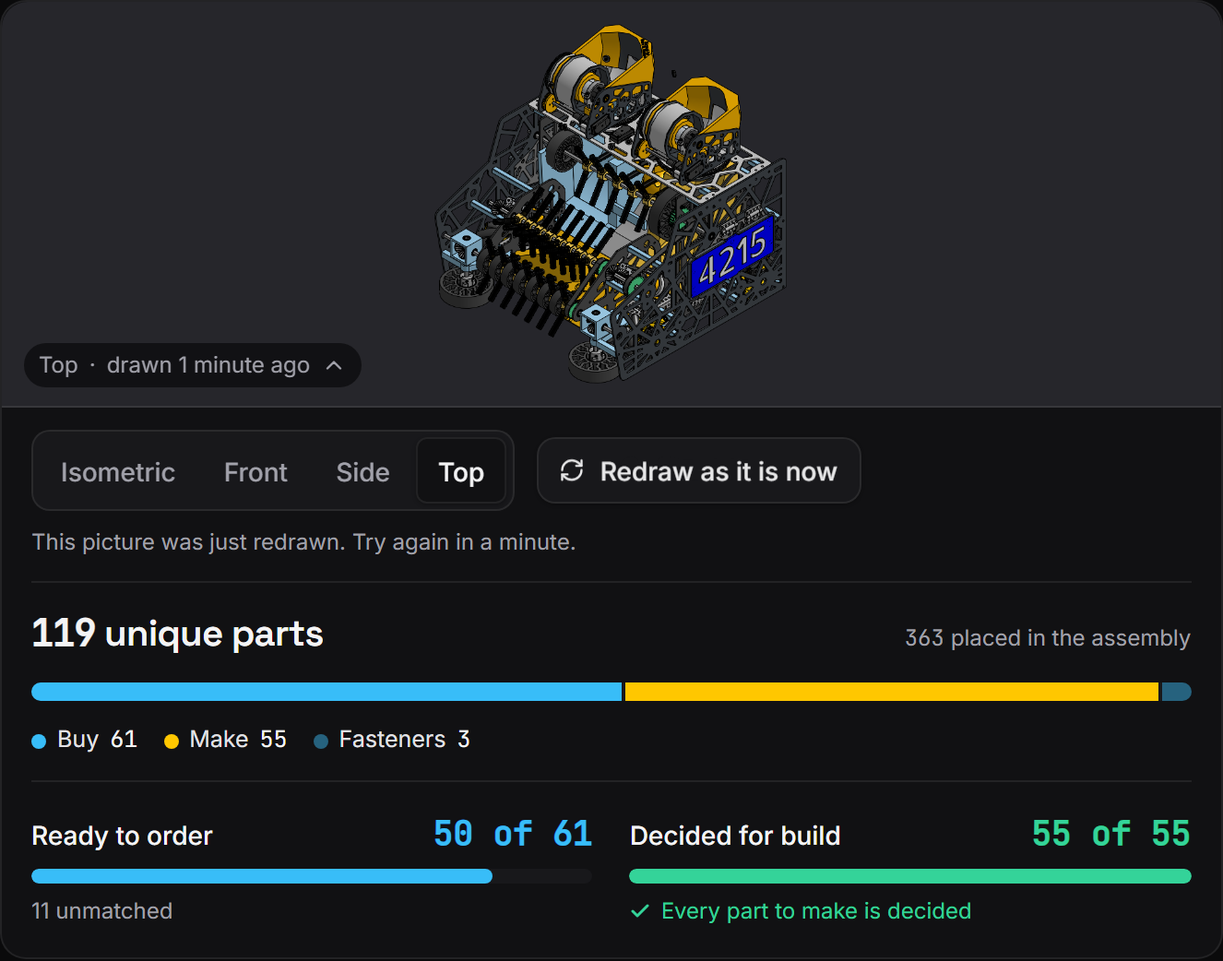
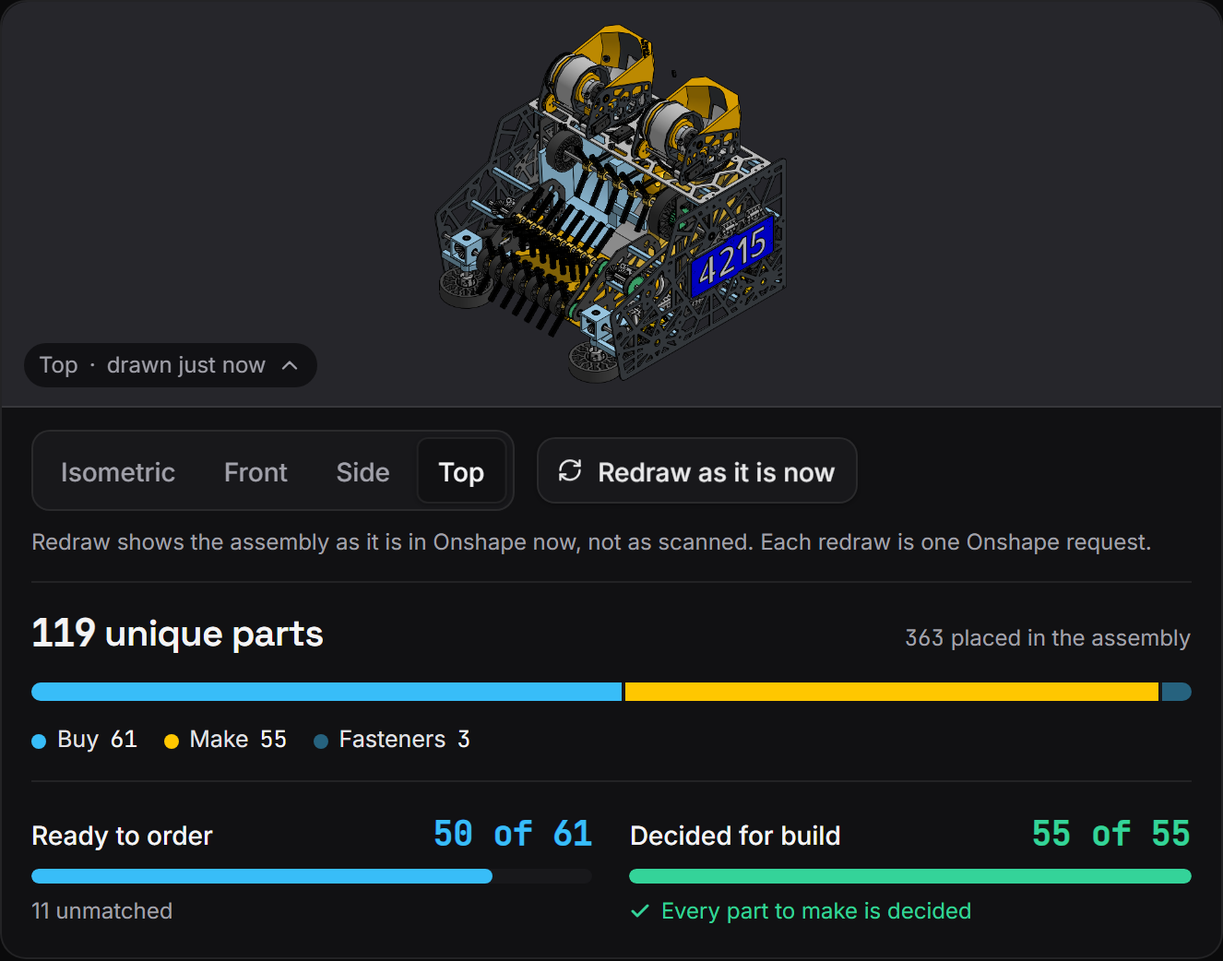
Picture redraws: atomic pause, per-branch pictures, request order
- The once-a-minute pause is reserved in the AiAllowance Durable Object's
  redraw instance before Onshape is asked, so simultaneous clicks cannot both
  spend a request; a failed redraw gives its pause back.
- A redrawn picture is kept per workspace or version, and the panel sends its
  own with every picture request, so one branch never shows another's.
- Only the latest load or redraw may change the picture; late results and
  results after leaving Overview are released. The caption names the view on
  screen, and a remembered view Onshape cannot draw falls back to isometric.
- The fixture clears redrawn pictures on a new scan, as the Worker does.

Changed region(s): [[0.0309, 0.5528, 0.9276, 0.5835], [0.4638, 0.4607, 0.6802, 0.5221], [0.1237, 0.3685, 0.2474, 0.3992]]

diff --git a/apps/worker/src/preview.ts b/apps/worker/src/preview.ts
@@ -1,5 +1,6 @@
 import type { BomLine, ScanResult } from '@control-kit/shared';
 import type { Kv } from './index';
+import type { GateReply, GateRequest } from './ai-allowance';
 
 type FetchOnshape = (path: string, init?: RequestInit) => Promise<Response>;
 const size = { outputWidth: '480', outputHeight: '320' };
@@ -46,17 +47,21 @@ export function assemblyPreviewPath(result: ScanResult, apiVersion: string, view
 export const assemblyPreviewCacheKey = (userId: string, result: ScanResult, view: AssemblyView = 'isometric') =>
   `${userId}:preview-assembly:${result.documentId}:${result.elementId}:${result.diagnostics?.revision?.type ?? ''}:${result.diagnostics?.revision?.id ?? result.scanId ?? 'unknown'}${view === 'isometric' ? '' : `:${view}`}`;
 
+/** The panel's workspace or version: where a redraw is drawn from. */
+export type AssemblySource = { type: 'w' | 'v'; id: string };
 /**
- * A picture drawn on request from the assembly as it is now (its workspace, or its version), kept per user, assembly,
- * and view with the time it was drawn. It replaces the scanned picture while it is newer than the scan.
+ * A picture drawn on request from the assembly as it is now, kept per user, assembly, workspace or version (so one
+ * branch never shows another's), and view, with the time it was drawn. It replaces the scanned picture while it is newer
+ * than the scan.
  */
-export const assemblyNowKey = (userId: string, result: ScanResult, view: AssemblyView) => `${userId}:preview-assembly-now:${result.documentId}:${result.elementId}:${view}`;
+export const assemblyNowKey = (userId: string, result: ScanResult, source: AssemblySource, view: AssemblyView) =>
+  `${userId}:preview-assembly-now:${result.documentId}:${result.elementId}:${source.type}:${source.id}:${view}`;
 export type AssemblyNow = { at: string; image: string };
 /** How long a person waits between redraws of one assembly and view: each costs a billable Onshape request. */
 export const redrawPauseMs = 60_000;
 
 /** The current workspace or version, drawn whole. */
-export function assemblyNowPath(result: ScanResult, source: { type: 'w' | 'v'; id: string }, apiVersion: string, view: AssemblyView) {
+export function assemblyNowPath(result: ScanResult, source: AssemblySource, apiVersion: string, view: AssemblyView) {
   return `/api/${apiVersion}/assemblies/d/${encodeURIComponent(result.documentId)}/${source.type}/${encodeURIComponent(source.id)}/e/${encodeURIComponent(result.elementId)}/shadedviews?${assemblyQuery(view)}`;
 }
 
@@ -94,7 +99,7 @@ export function assemblyPreview(result: ScanResult, cacheKey: string, kv: Kv, fe
 }
 
 /** One Onshape request for the assembly as it is now, stored with the time it was drawn. */
-export async function redrawAssembly(result: ScanResult, source: { type: 'w' | 'v'; id: string }, key: string, kv: Kv, fetchOnshape: FetchOnshape, apiVersion: string, view: AssemblyView): Promise<{ png: Uint8Array; at: string }> {
+export async function redrawAssembly(result: ScanResult, source: AssemblySource, key: string, kv: Kv, fetchOnshape: FetchOnshape, apiVersion: string, view: AssemblyView): Promise<{ png: Uint8Array; at: string }> {
   const response = await fetchOnshape(assemblyNowPath(result, source, apiVersion, view), { headers: { accept: 'application/json' } });
   if (!response.ok) throw new PreviewUnavailableError(response.status === 403 || response.status === 404 ? 'Onshape would not draw this assembly; its document may not be shared with you.' : `Onshape could not draw this assembly (HTTP ${response.status}).`);
   const body = await response.json().catch(() => null) as { images?: unknown } | null;
@@ -103,4 +108,24 @@ export async function redrawAssembly(result: ScanResult, source: { type: 'w' | '
   const at = new Date().toISOString();
   await kv.put(key, JSON.stringify({ at, image } satisfies AssemblyNow), { expirationTtl: 30 * 86400 });
   return { png: Uint8Array.from(atob(image), char => char.charCodeAt(0)), at };
+}
+
+/** The Durable Object namespace that holds pauses atomically (`AiAllowance`, instance "redraw"). */
+type Gates = { idFromName(name: string): unknown; get(id: unknown): { fetch(request: Request): Promise<Response> } };
+/**
+ * Reserves one redraw before Onshape is asked, so two clicks arriving together cannot both spend a request. With the
+ * Durable Object the check and the reservation are one step; without it (local tests), the stored picture's time is the
+ * only check. A failed redraw gives its pause back.
+ */
+export async function reserveRedraw(gates: Gates | undefined, kv: Kv, key: string): Promise<{ ok: true; release(): Promise<void> } | { ok: false; retryAfter: number }> {
+  if (!gates) {
+    const last = await kv.get(key).then(value => value ? (JSON.parse(value) as AssemblyNow).at : null).catch(() => null);
+    const wait = last ? Date.parse(last) + redrawPauseMs - Date.now() : 0;
+    return wait > 0 ? { ok: false, retryAfter: Math.ceil(wait / 1000) } : { ok: true, release: async () => undefined };
+  }
+  const stub = gates.get(gates.idFromName('redraw'));
+  const ask = async (body: GateRequest) => await (await stub.fetch(new Request('https://allowance/', { method: 'POST', body: JSON.stringify(body) }))).json() as GateReply;
+  const reply = await ask({ action: 'gate', key, pauseMs: redrawPauseMs });
+  if (!reply.ok) return { ok: false, retryAfter: Math.ceil(reply.retryAfterMs / 1000) };
+  return { ok: true, release: async () => { await ask({ action: 'ungate', key, until: reply.until }).catch(() => undefined); } };
 }

diff --git a/apps/worker/src/index.ts b/apps/worker/src/index.ts
@@ -7,7 +7,7 @@ import { aiReviewEnabled, cachedAiReview, releaseAiReview, reserveAiReview, revi
 export { AiAllowance } from './ai-allowance';
 import { advanceExport, BudgetExhaustedError, createExportJob, fileKey, jobKey, jobSummary, pollBudget, type ExportJob, type RequestBudget } from './step-export';
 import { countedFetch, persistLedger, RequestLedger } from './onshape-client';
-import { assemblyNowKey, assemblyPreview, assemblyPreviewCacheKey, assemblyView, linePreview, previewCacheKey, PreviewUnavailableError, readAssemblyNow, redrawAssembly, redrawPauseMs, type AssemblyNow } from './preview';
+import { assemblyNowKey, assemblyPreview, assemblyPreviewCacheKey, assemblyView, linePreview, previewCacheKey, PreviewUnavailableError, readAssemblyNow, redrawAssembly, reserveRedraw, type AssemblySource } from './preview';
 import { clearCookie, readSignedEnvelope, seal, signedCookie, unseal, type SignedCookie } from './secrets';
 import { controlPointRoute, type ControlPointEnv } from './control-point';
 
@@ -116,6 +116,12 @@ function onshapeFetcher(env: Env, current: { id: string; data: Session }, ledger
     throw new Error('Onshape rate limit exhausted');
   };
 }
+/** The panel's workspace or version from `wvm`/`wvmId`, or null when it names neither. */
+function assemblySource(url: URL): AssemblySource | null {
+  const type = url.searchParams.get('wvm'), id = url.searchParams.get('wvmId') ?? '';
+  return (type === 'w' || type === 'v') && /^[A-Za-z0-9]{1,64}$/.test(id) ? { type, id } : null;
+}
+
 /** An assembly picture; `x-picture-drawn` holds when it was redrawn on request, absent for the scanned revision's picture. */
 function assemblyPicture(png: Uint8Array, drawnAt: string | null) {
   const headers: Record<string, string> = { 'content-type': 'image/png', 'cache-control': 'private, no-cache' };
@@ -360,7 +366,9 @@ async function route(request: Request, env: Env): Promise<Response> {
     if (!raw) return reply({ error: 'Scan this assembly again to see its picture.' }, 409);
     const result = JSON.parse(raw) as ScanResult;
     const view = assemblyView(url.searchParams.get('view'));
-    const drawn = await readAssemblyNow(env.APP_STATE, assemblyNowKey(current.data.user.id, result, view), result);
+    // A picture redrawn from this panel's own workspace or version, when the panel names it.
+    const source = assemblySource(url);
+    const drawn = source && await readAssemblyNow(env.APP_STATE, assemblyNowKey(current.data.user.id, result, source, view), result);
     if (drawn) return assemblyPicture(Uint8Array.from(atob(drawn.image), char => char.charCodeAt(0)), drawn.at);
     const ledger = new RequestLedger('preview');
     try {
@@ -379,22 +387,21 @@ async function route(request: Request, env: Env): Promise<Response> {
     if (!current) return reply({ error: 'Reconnect Onshape.' }, 401);
     const scanId = url.searchParams.get('scanId');
     if (!scanId || !/^[a-f0-9-]{36}$/.test(scanId)) return reply({ error: 'Invalid scan.' }, 400);
-    const type = url.searchParams.get('wvm');
-    const id = url.searchParams.get('wvmId') ?? '';
-    if ((type !== 'w' && type !== 'v') || !/^[A-Za-z0-9]{1,64}$/.test(id)) return reply({ error: 'Open Control Kit from an assembly tab to redraw its picture.' }, 400);
+    const source = assemblySource(url);
+    if (!source) return reply({ error: 'Open Control Kit from an assembly tab to redraw its picture.' }, 400);
     const raw = await env.APP_STATE.get(`scan:${current.data.user.id}:${scanId}`);
     if (!raw) return reply({ error: 'Scan this assembly again to see its picture.' }, 409);
     const result = JSON.parse(raw) as ScanResult;
     const view = assemblyView(url.searchParams.get('view'));
-    const key = assemblyNowKey(current.data.user.id, result, view);
-    const last = await env.APP_STATE.get(key).then(value => value ? (JSON.parse(value) as AssemblyNow).at : null).catch(() => null);
-    const wait = last ? Date.parse(last) + redrawPauseMs - Date.now() : 0;
-    if (wait > 0) return reply({ error: 'This picture was just redrawn. Try again in a minute.', retryAfter: Math.ceil(wait / 1000) }, 429);
+    const key = assemblyNowKey(current.data.user.id, result, source, view);
+    const reserved = await reserveRedraw(env.AI_ALLOWANCE, env.APP_STATE, key);
+    if (!reserved.ok) return reply({ error: 'This picture was just redrawn. Try again in a minute.', retryAfter: reserved.retryAfter }, 429);
     const ledger = new RequestLedger('preview');
     try {
-      const { png, at } = await redrawAssembly(result, { type, id }, key, env.APP_STATE, onshapeFetcher(env, current, ledger, { remaining: 3 }), env.ONSHAPE_API_VERSION, view);
+      const { png, at } = await redrawAssembly(result, source, key, env.APP_STATE, onshapeFetcher(env, current, ledger, { remaining: 3 }), env.ONSHAPE_API_VERSION, view);
       return assemblyPicture(png, at);
     } catch (error) {
+      await reserved.release();
       if (error instanceof SessionExpiredError) return reply({ error: 'Reconnect Onshape.' }, 401);
       if (error instanceof PreviewUnavailableError || error instanceof BudgetExhaustedError) return reply({ error: error instanceof PreviewUnavailableError ? error.message : 'Onshape is busy. Try again shortly.' }, 404);
       throw error;

diff --git a/apps/worker/src/control-point.test.ts b/apps/worker/src/control-point.test.ts
@@ -1,4 +1,5 @@
 import { afterAll, beforeEach, describe, expect, it, vi } from 'vitest';
+import { AiAllowance, type GateRequest } from './ai-allowance';
 import worker, { type Env, type Kv } from './index';
 import { createMockOnshape } from './mock-onshape';
 import { createMockControlPoint } from './mock-control-point';
@@ -393,10 +394,13 @@ describe('assembly picture', () => {
       const first = await redraw();
       expect(new TextDecoder().decode(await first.arrayBuffer())).toBe('PNG assemblies w/work1');
       expect(first.headers.get('x-picture-drawn')).toBeTruthy();
-      // The scan's picture is now the redrawn one, served without another request.
-      const shown = await call(`/api/preview/assembly?scanId=${result.scanId}`, { cookie });
+      // In this panel's workspace the scan's picture is now the redrawn one, served without another request.
+      const shown = await call(`/api/preview/assembly?scanId=${result.scanId}&wvm=w&wvmId=work1`, { cookie });
       expect(new TextDecoder().decode(await shown.arrayBuffer())).toBe('PNG assemblies w/work1');
       expect(shown.headers.get('x-picture-drawn')).toBe(first.headers.get('x-picture-drawn'));
+      // Another branch, or a panel that names none, still sees the scanned picture.
+      expect(new TextDecoder().decode(await (await call(`/api/preview/assembly?scanId=${result.scanId}&wvm=w&wvmId=branch2`, { cookie })).arrayBuffer())).toBe('PNG assemblies m/mv-1');
+      expect((await call(`/api/preview/assembly?scanId=${result.scanId}`, { cookie })).headers.get('x-picture-drawn')).toBeNull();
       const again = await redraw();
       expect(again.status).toBe(429);
       expect((await again.json() as { retryAfter: number }).retryAfter).toBeGreaterThan(0);
@@ -408,9 +412,51 @@ describe('assembly picture', () => {
       // A later scan reads a newer revision, so its own picture wins again.
       vi.setSystemTime(Date.now() + 1000);
       const newer = await scan(cookie);
-      expect(new TextDecoder().decode(await (await call(`/api/preview/assembly?scanId=${newer.scanId}`, { cookie })).arrayBuffer())).toBe('PNG assemblies m/mv-1');
+      expect(new TextDecoder().decode(await (await call(`/api/preview/assembly?scanId=${newer.scanId}&wvm=w&wvmId=work1`, { cookie })).arrayBuffer())).toBe('PNG assemblies m/mv-1');
       expect((await redraw('isometric', 'x')).status).toBe(400);
       expect((await call(`/api/preview/assembly/redraw?scanId=${result.scanId}&wvm=w&wvmId=work1`, { cookie, method: 'POST', headers: { origin: 'https://evil.example' } })).status).toBe(403);
     } finally { vi.useRealTimers(); }
   });
+  it('lets only one of two simultaneous redraws reach Onshape', async () => {
+    const instance = new AiAllowance(memoryStorage());
+    const gates = { idFromName: (name: string) => name, get: () => ({ fetch: (request: Request) => instance.fetch(request) }) };
+    const config = { ...env, AI_ALLOWANCE: gates } as Env;
+    const cookie = await session();
+    const result = await scan(cookie);
+    const before = onshape.apiRequests;
+    const both = await Promise.all([1, 2].map(() => call(`/api/preview/assembly/redraw?scanId=${result.scanId}&view=right&wvm=w&wvmId=work1`, { cookie, method: 'POST', config })));
+    expect(both.map(response => response.status).sort()).toEqual([200, 429]);
+    expect(onshape.apiRequests - before).toBe(1);
+  });
 });
+
+describe('redraw pauses', () => {
+  it('holds a pause atomically, gives a failed one back, and keeps a newer one', async () => {
+    const instance = new AiAllowance(memoryStorage());
+    let now = 1_000_000;
+    instance.now = () => now;
+    const gate = (body: GateRequest) => instance.gate(body);
+    const first = await gate({ action: 'gate', key: 'a', pauseMs: 60_000 });
+    expect(first).toEqual({ ok: true, until: 1_060_000 });
+    expect(await gate({ action: 'gate', key: 'a', pauseMs: 60_000 })).toEqual({ ok: false, retryAfterMs: 60_000 });
+    expect((await gate({ action: 'gate', key: 'b', pauseMs: 60_000 })).ok).toBe(true);
+    // A failed redraw gives its own pause back, so the person can try again at once.
+    await gate({ action: 'ungate', key: 'a', until: (first as { until: number }).until });
+    const second = await gate({ action: 'gate', key: 'a', pauseMs: 60_000 });
+    expect(second.ok).toBe(true);
+    // An old caller's give-back never removes a newer pause.
+    await gate({ action: 'ungate', key: 'a', until: 1 });
+    expect((await gate({ action: 'gate', key: 'a', pauseMs: 60_000 })).ok).toBe(false);
+    now += 61_000;
+    expect((await gate({ action: 'gate', key: 'a', pauseMs: 60_000 })).ok).toBe(true);
+  });
+});
+
+function memoryStorage() {
+  const store = new Map<string, unknown>();
+  return { storage: {
+    get: async <T>(key: string) => store.get(key) as T | undefined, put: async (key: string, value: unknown) => { store.set(key, value); },
+    delete: async (key: string) => store.delete(key),
+    list: async <T>({ prefix }: { prefix: string }) => new Map([...store].filter(([key]) => key.startsWith(prefix))) as Map<string, T>,
+  } };
+}

diff --git a/apps/web/src/app/Overview.tsx b/apps/web/src/app/Overview.tsx
@@ -214,18 +214,29 @@ function AssemblyPicture({ kit }: { kit: ControlKit }) {
   const [busy, setBusy] = useState(false);
   const [note, setNote] = useState('');
   const shown = useRef<string | null>(null);
+  // Every load and redraw takes a number; only the latest one may change the picture, and nothing lands after unmount.
+  const latest = useRef(0);
+  const mounted = useRef(true);
   const figure = useRef<HTMLDivElement>(null);
   const menuId = useId();
-  const show = (next: AssemblyPictureResult) => {
+  const remember = (next: AssemblyView) => { try { localStorage.setItem(viewKey, next); } catch { /* the view is a convenience; the default still works */ } };
+  const settle = (request: number, next: AssemblyPictureResult) => {
+    if (!mounted.current || request !== latest.current) { URL.revokeObjectURL(next.url); return; }
     if (shown.current) URL.revokeObjectURL(shown.current);
     shown.current = next.url;
     setPicture(next);
+    setNote('');
   };
-  useEffect(() => () => { if (shown.current) URL.revokeObjectURL(shown.current); }, []);
+  useEffect(() => { mounted.current = true; return () => { mounted.current = false; if (shown.current) URL.revokeObjectURL(shown.current); shown.current = null; }; }, []);
   useEffect(() => {
+    const request = ++latest.current;
     const controller = new AbortController();
-    kit.assemblyPicture(view, controller.signal).then(next => { if (!controller.signal.aborted) { show(next); setNote(''); } })
-      .catch(error => { if (!controller.signal.aborted) setNote(error instanceof Error ? error.message : 'Onshape could not draw this view.'); });
+    kit.assemblyPicture(view, controller.signal).then(next => settle(request, next)).catch(error => {
+      if (controller.signal.aborted || request !== latest.current || !mounted.current) return;
+      // A remembered view Onshape cannot draw falls back to isometric, so the picture and its menu never disappear for good.
+      if (!shown.current && view !== 'isometric') { setView('isometric'); remember('isometric'); return; }
+      setNote(error instanceof Error ? error.message : 'Onshape could not draw this view.');
+    });
     return () => controller.abort();
   }, [result.scanId, view]);
   // The menu closes on Escape or a click outside the picture.
@@ -238,19 +249,17 @@ function AssemblyPicture({ kit }: { kit: ControlKit }) {
     return () => { document.removeEventListener('pointerdown', away); document.removeEventListener('keydown', escape); };
   }, [open]);
   if (!picture) return null;
-  const choose = (value: string) => {
-    const next = value as AssemblyView;
-    setView(next);
-    try { localStorage.setItem(viewKey, next); } catch { /* the view is a convenience; the default still works */ }
-  };
+  const choose = (value: string) => { setView(value as AssemblyView); remember(value as AssemblyView); };
   const redraw = async () => {
+    const request = ++latest.current;
     setBusy(true);
     setNote('');
-    try { show(await kit.redrawAssemblyPicture(view)); }
-    catch (error) { setNote(error instanceof Error ? error.message : 'Onshape could not redraw this picture.'); }
-    finally { setBusy(false); }
+    try { settle(request, await kit.redrawAssemblyPicture(view)); }
+    catch (error) { if (mounted.current && request === latest.current) setNote(error instanceof Error ? error.message : 'Onshape could not redraw this picture.'); }
+    finally { if (mounted.current) setBusy(false); }
   };
-  const label = pictureViews.find(option => option.value === view)!.label;
+  // The caption and description name the picture on screen, which may still be the previous view while the next one loads.
+  const label = pictureViews.find(option => option.value === picture.view)!.label;
   return <div ref={figure} className="hero"><figure className="hero-picture">
     <button type="button" className="hero-picture-button" aria-expanded={open} aria-controls={menuId} onClick={() => setOpen(value => !value)}
       aria-label={`${result.assemblyName}, as modelled in Onshape (${label.toLowerCase()} view). Change the picture`}>

diff --git a/apps/web/src/app/useControlKit.ts b/apps/web/src/app/useControlKit.ts
@@ -21,7 +21,7 @@ export const contextKeys = ['documentId', 'workspaceOrVersion', 'workspaceOrVers
 export const workerUrl = import.meta.env.VITE_WORKER_URL ?? '';
 /** The angles the assembly's picture can be drawn from, as the Worker names them (`assemblyViews`). */
 export type AssemblyView = 'isometric' | 'front' | 'right' | 'top';
-export type AssemblyPictureResult = { url: string; drawnAt: string | null };
+export type AssemblyPictureResult = { url: string; drawnAt: string | null; view: AssemblyView };
 export const api = (path: string, init: RequestInit = {}) => fetch(`${workerUrl}${path}`, { credentials: 'include', ...init });
 export const postJson = (path: string, body: unknown) => api(path, { method: 'POST', headers: { 'content-type': 'application/json' }, body: JSON.stringify(body) });
 const overridesOf = (result: ScanResult) => Object.fromEntries(result.lines.filter(line => line.manualClassification).map(line => [line.bomLineKey, line.manualClassification!]));
@@ -555,19 +555,21 @@ export function useControlKit(context: URLSearchParams) {
    * The whole assembly drawn by Onshape in one view: at the scanned revision (cached by the Worker, so only a new
    * revision or view costs a request), or the picture last redrawn on request while it is newer than the scan.
    */
+  // This tab's workspace or version, so a redrawn picture is only ever shown in the branch it was drawn from.
+  const pictureSource = () => ({ wvm: context.get('workspaceOrVersion') ?? '', wvmId: context.get('workspaceOrVersionId') ?? '' });
   async function assemblyPicture(view: AssemblyView, signal: AbortSignal): Promise<AssemblyPictureResult> {
     if (!result?.scanId) throw new Error('Scan this assembly first.');
-    const response = await api(`/api/preview/assembly?${new URLSearchParams({ scanId: result.scanId, view })}`, { signal });
+    const response = await api(`/api/preview/assembly?${new URLSearchParams({ scanId: result.scanId, view, ...pictureSource() })}`, { signal });
     if (!response.ok) throw new Error(await response.json().then((body: { error?: string }) => body.error).catch(() => undefined) ?? 'Onshape could not draw this view.');
-    return { url: URL.createObjectURL(await response.blob()), drawnAt: response.headers.get('x-picture-drawn') };
+    return { url: URL.createObjectURL(await response.blob()), drawnAt: response.headers.get('x-picture-drawn'), view };
   }
   /** Draws the assembly as it is now in this tab's workspace or version: one Onshape request, at most once a minute per view. */
   async function redrawAssemblyPicture(view: AssemblyView): Promise<AssemblyPictureResult> {
-    const wvm = context.get('workspaceOrVersion'), wvmId = context.get('workspaceOrVersionId');
+    const { wvm, wvmId } = pictureSource();
     if (!result?.scanId || (wvm !== 'w' && wvm !== 'v') || !wvmId) throw new Error('Open Control Kit from an assembly tab to redraw its picture.');
     const response = await api(`/api/preview/assembly/redraw?${new URLSearchParams({ scanId: result.scanId, view, wvm, wvmId })}`, { method: 'POST' });
     if (!response.ok) throw new Error(await response.json().then((body: { error?: string }) => body.error).catch(() => undefined) ?? 'Onshape could not redraw this picture.');
-    return { url: URL.createObjectURL(await response.blob()), drawnAt: response.headers.get('x-picture-drawn') };
+    return { url: URL.createObjectURL(await response.blob()), drawnAt: response.headers.get('x-picture-drawn'), view };
   }
 
   return { assemblyPicture, redrawAssemblyPicture, context, buildWorkbook, lastStepZip, previous, ai, runAiReview, acceptAi, dismissAi, saving, showInOnshape, partPicture, session, checkingSession, refreshSession, connectUrl, error, clearError: () => setError(''), result, progress, scan, cancelScan, decide, setDisposition,

diff --git a/apps/worker/src/ai-allowance.ts b/apps/worker/src/ai-allowance.ts
@@ -2,10 +2,16 @@
  * The AI review's daily allowance, as one Durable Object. KV has no atomic read-modify-write, so two reviews starting
  * together could both pass a KV counter; a Durable Object handles one request at a time and its storage waits block
  * other requests, so checking and reserving are one step. One instance ("global") holds every count.
+ *
+ * The same class also holds short pauses (`gate`) for other billable actions, in its own instance ("redraw" for the
+ * assembly picture), so two requests arriving together cannot both start one: the first reserves the pause, the second
+ * is told how long to wait. A failed action gives its pause back (`ungate`).
  */
 type Storage = { get<T>(key: string): Promise<T | undefined>; put<T>(key: string, value: T): Promise<void>; delete(key: string): Promise<boolean>; list<T>(options: { prefix: string }): Promise<Map<string, T>> };
 export type AllowanceRequest = { action: 'reserve'; userId: string; perUser: number; global: number; lockMs: number } | { action: 'release'; userId: string };
 export type AllowanceReply = { ok: true } | { ok: false; reason: 'busy' | 'user-limit' | 'global-limit' };
+export type GateRequest = { action: 'gate'; key: string; pauseMs: number } | { action: 'ungate'; key: string; until: number };
+export type GateReply = { ok: true; until: number } | { ok: false; retryAfterMs: number };
 
 export class AiAllowance {
   /** Cloudflare constructs a Durable Object as `(state, env)`; the clock is a property so tests can set it. */
@@ -13,8 +19,8 @@ export class AiAllowance {
   constructor(private readonly state: { storage: Storage }, _env?: unknown) { void _env; }
 
   async fetch(request: Request): Promise<Response> {
-    const body = await request.json() as AllowanceRequest;
-    return Response.json(await this.handle(body));
+    const body = await request.json() as AllowanceRequest | GateRequest;
+    return Response.json(body.action === 'gate' || body.action === 'ungate' ? await this.gate(body) : await this.handle(body));
   }
 
   /** Requests run one after another, so a check and its reservation are never split by another request. */
@@ -23,6 +29,31 @@ export class AiAllowance {
     const next = this.queue.then(() => this.run(body));
     this.queue = next.catch(() => undefined);
     return next;
+  }
+
+  /** Pauses run in the same queue, so a check and its reservation are one step here too. */
+  gate(body: GateRequest): Promise<GateReply> {
+    const next = this.queue.then(() => this.runGate(body));
+    this.queue = next.catch(() => undefined);
+    return next;
+  }
+
+  private async runGate(body: GateRequest): Promise<GateReply> {
+    const { storage } = this.state;
+    const key = `gate:${body.key}`;
+    if (body.action === 'ungate') {
+      // Only the pause this caller reserved; a newer one stays.
+      if ((await storage.get<number>(key)) === body.until) await storage.delete(key);
+      return { ok: true, until: 0 };
+    }
+    const now = this.now();
+    const until = (await storage.get<number>(key)) ?? 0;
+    if (until > now) return { ok: false, retryAfterMs: until - now };
+    // Expired pauses are dropped as new ones are taken, so the instance never grows past its active pauses.
+    for (const [old, value] of await storage.list<number>({ prefix: 'gate:' })) if (value <= now) await storage.delete(old);
+    const next = now + body.pauseMs;
+    await storage.put(key, next);
+    return { ok: true, until: next };
   }
 
   private async run(body: AllowanceRequest): Promise<AllowanceReply> {

diff --git a/apps/web/fixture-api.ts b/apps/web/fixture-api.ts
@@ -99,6 +99,8 @@ export function fixtureApi(fixturePath?: string, catalogOrigin?: string, preview
         }
         if (url.pathname === '/control-point/start') { cpLinked = true; response.setHeader('content-type', 'text/html'); return response.end('<script>opener && opener.postMessage({ type: "control-point-linked" }, location.origin); close();</script>Linked.'); }
         if (url.pathname === '/api/scan') {
+          // A new scan reads a newer revision, so its own pictures replace any redrawn ones, as in the Worker.
+          redrawnAt.clear();
           response.setHeader('content-type', 'application/x-ndjson');
           // The same steps and counts the Worker sends, so the progress screen can be seen here.
           // A saved scan reports what it really read; its subassembly count is not kept, so it is left out.

diff --git a/CLAUDE.md b/CLAUDE.md
@@ -239,7 +239,7 @@ UI refresh (2026-10-26, from the owner's audit "Control Kit — Full UI Audit an
 - **Control Point UI (PR 3).** `useControlPoint.ts` reads `/api/control-point/*`, opens the link in a popup (Onshape's iframe cannot show Control Point's sign-in) and listens for the Worker's `control-point-linked` / `control-point-link-failed` message from the Worker origin. `ControlPoint.tsx` holds the Overview card: unlinked, a preview of this scan built by `buildControlPointPayload(result, { workspaceId: null })` grouped into Control Point sections, the payoff, Link and "Create a free workspace"; linked, the workspace picker (one workspace preselected but confirmed; none gets create and join links), then "Send full BOM to {workspace}" with the last send. A send attaches the workbook and the STEP ZIP built in this session (`lastStepZip`), or lists STEP under `filesNotIncluded`, and posts the stringified payload unmodified. When the order and build list are complete, the primary action becomes the send, then "View in {workspace}". `workspaceAccent` (`model.ts`) turns the workspace colour into `--ck-volt` and its hover/soft/ink only when it reaches 3:1 on graphite and 4.5:1 under button text; otherwise Control Kit stays volt and Settings says why. The workspace shows in the top bar chip and sidebar. Settings gains a Control Point section (switch, unlink; the team number stays separate). The status card shows the whole assembly from `/api/preview/assembly`. The fixture API stands in for the link routes (`CK_CONTROL_POINT=off|unlinked|linked|none`, `CK_CP_ACCENT`).
 - **Screenshots.** `docs/screenshots/ui-refresh/` holds each PR's verification captures at 380 px (Onshape panel) and 1440 px, taken from the fixture app with the saved HORS scan by an untracked Playwright script.
 - **Pictures and listing (2026-10-26).** Onshape's shaded views are transparent PNGs; every picture (status card, part drawer, thumbnails) now sits on `--ck-stage` (#26262b), dark enough to match the app and light enough for black plates and edges to read. The status card's picture is a block box, not a grid item, so `height: 100%` fits the whole robot instead of overflowing and cropping it. The listing kit, install page, and share image were recaptured in the refreshed UI by untracked scripts (`work/listing-shots.mjs`, `work/feature-graphic.mjs`); `5-scan.png` and the install page's hero (`listing/in-onshape.webp`) are the owner's capture of HORS scanning in Onshape.
-- **Robot picture menu (2026-10-27, owner request "preview image should be updatable on click").** Clicking the status card's picture opens a view choice (isometric, front, side = Onshape's `right`, top; remembered per assembly in localStorage `control-kit:picture-view:{doc}:{elem}`) and "Redraw as it is now". `GET /api/preview/assembly?scanId&view` caches each view per scanned revision (isometric keeps its old key; others add `:{view}`). `POST /api/preview/assembly/redraw?scanId&view&wvm&wvmId` draws the panel's workspace or version (one billable `shaded-view` request), stored at `{userId}:preview-assembly-now:{doc}:{elem}:{view}` as `{at, image}` for 30 days, at most once a minute per view (429 with `retryAfter`). That picture replaces the scanned one only while it is newer than the scan; the response header `x-picture-drawn` (exposed through CORS) says when it was drawn. Onshape's named views other than `isometric` were not checked live; a refusal shows as a note in the menu.
+- **Robot picture menu (2026-10-27, owner request "preview image should be updatable on click").** Clicking the status card's picture opens a view choice (isometric, front, side = Onshape's `right`, top; remembered per assembly in localStorage `control-kit:picture-view:{doc}:{elem}`) and "Redraw as it is now". `GET /api/preview/assembly?scanId&view` caches each view per scanned revision (isometric keeps its old key; others add `:{view}`). `POST /api/preview/assembly/redraw?scanId&view&wvm&wvmId` draws the panel's workspace or version (one billable `shaded-view` request), stored at `{userId}:preview-assembly-now:{doc}:{elem}:{w|v}:{id}:{view}` as `{at, image}` for 30 days, so one branch never shows another's. At most once a minute per view: the pause is reserved before Onshape is asked in the `AiAllowance` Durable Object's "redraw" instance (`gate`/`ungate`), so simultaneous clicks cannot both spend a request, and a failed redraw gives its pause back (429 with `retryAfter`). The panel sends its `wvm`/`wvmId` with both routes; that picture replaces the scanned one only while it is newer than the scan; the response header `x-picture-drawn` (exposed through CORS) says when it was drawn. Onshape's named views other than `isometric` were not checked live; a refusal shows as a note in the menu.
 - **Control Point link.** `docs/control-point-link.md` is the contract both repositories build to (account-level grant, workspace picked in Control Kit, idempotency key including the workspace id, workspace `accentColor`).
 
 Control Point link, Worker side (2026-10-26, owner request "build both sides now"; supersedes the M7 and PR 12 live gate):
